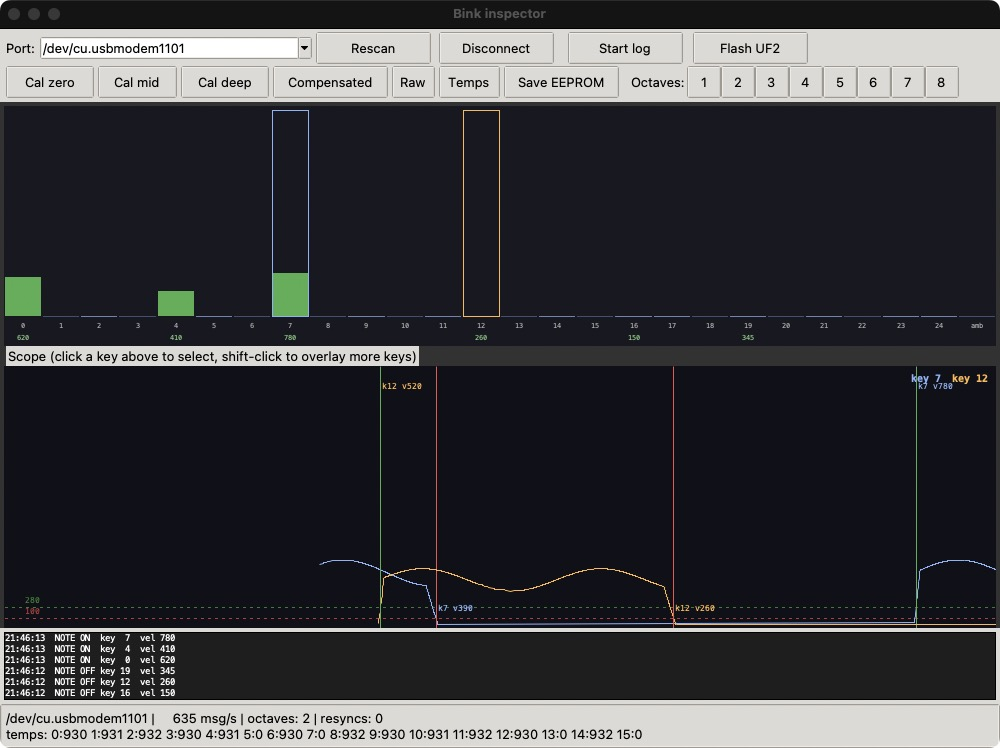
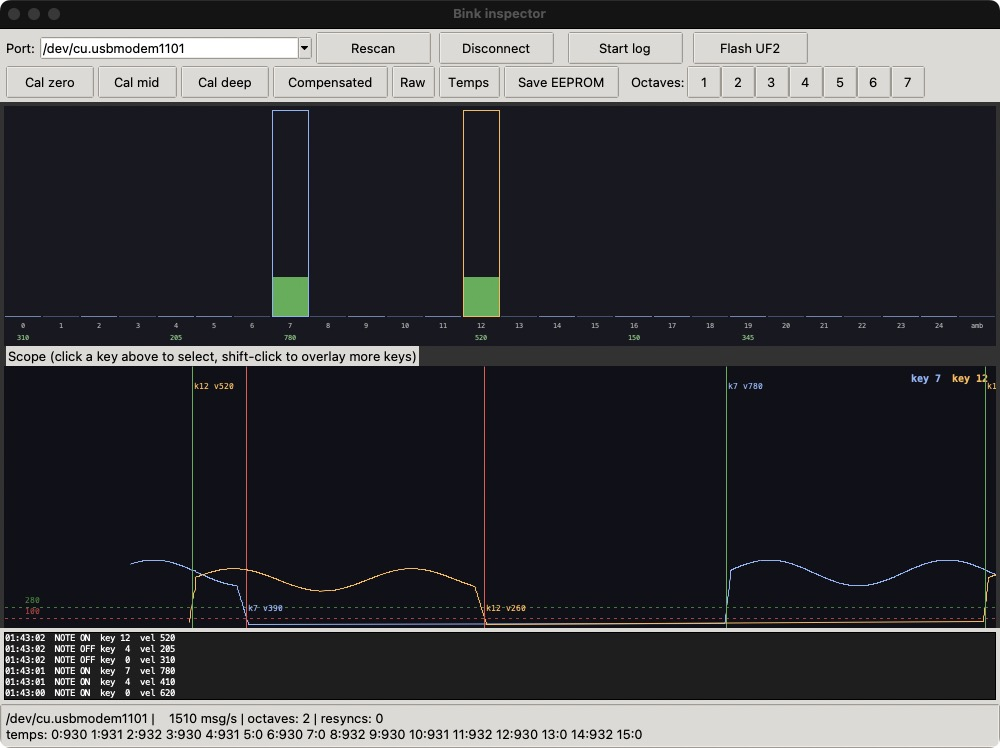
Limit keybeds to 7 octaves
Bink keybeds stop at 7 octaves, so BINK_MAX_OCTAVES is now 7 and the
8 octave command is gone from BinkComm, the inspector and the docs.
Key IDs now end below the octave ID, so BinkReceiver no longer needs
to tell the two apart. The firmware's pages use BINK_MAX_OCTAVES.

diff --git a/inspector/bink_gui.py b/inspector/bink_gui.py
@@ -108,7 +108,7 @@ class BinkGui:
             ttk.Button(board, text=label, width=len(label),
                        command=lambda c=cmd: self._send(c)).pack(side="left", padx=2)
         ttk.Label(board, text="Octaves:").pack(side="left", padx=(8, 0))
-        for n in range(1, 9):
+        for n in range(1, 8):
             ttk.Button(board, text=str(n), width=2,
                        command=lambda c=n: self._set_octaves(c)).pack(side="left")
 
@@ -186,8 +186,8 @@ class BinkGui:
         n = simpledialog.askinteger(
             "Bink inspector",
             "The board did not report its octave count.\n"
-            "How many octaves does this keybed have? (1-8)",
-            parent=self.root, minvalue=1, maxvalue=8, initialvalue=4)
+            "How many octaves does this keybed have? (1-7)",
+            parent=self.root, minvalue=1, maxvalue=7, initialvalue=4)
         if n is None or not self.ser:
             self.pending_events.append("octave count unknown; showing keys as they report")
             return
@@ -272,7 +272,7 @@ class BinkGui:
             if mtype == 3:
                 return
             if mid == ID_OCTAVES:
-                if value != self.octaves and 0 < value <= 8:
+                if value != self.octaves and 0 < value <= 7:
                     self.octaves = value
                     self._layout_keys(value)
                 return

diff --git a/inspector/bink_monitor.py b/inspector/bink_monitor.py
@@ -12,7 +12,7 @@ Interactive keys while running:
     z / m / h   capture zero / mid / deep calibration levels
     c / r       compensated / raw data mode
     t           request temperatures        o  request octave count
-    1..8        set octave count            E  save calibration to flash
+    1..7        set octave count            E  save calibration to flash
     l           toggle CSV logging          q  quit
 
 Offline plotting of a recorded CSV (requires matplotlib):
@@ -189,7 +189,7 @@ class Monitor:
                 f"resyncs: {self.dec.resyncs} | log: {log}"
             )
             lines.append(
-                "[z/m/h] cal zero/mid/deep  [c/r] comp/raw  [t]emps  [1-8] octaves  "
+                "[z/m/h] cal zero/mid/deep  [c/r] comp/raw  [t]emps  [1-7] octaves  "
                 "[E] save  [l]og  [q]uit"
             )
             lines.append("")
@@ -254,7 +254,7 @@ class Monitor:
         elif ch in "zmh":
             self.send({"z": "_", "m": "-", "h": "^"}[ch])
             self.events.append((time.time(), "sent", f"capture {'zero mid deep'.split()['zmh'.index(ch)]}", ""))
-        elif ch in "crtoE12345678":
+        elif ch in "crtoE1234567":
             cmd = {"c": "C", "r": "R", "t": "T", "o": "O", "E": "E"}.get(ch, ch)
             self.send(cmd)
             if ch.isdigit():

diff --git a/BinkComm/src/BinkComm.cpp b/BinkComm/src/BinkComm.cpp
@@ -26,7 +26,6 @@ void BinkReceiver::Dispatch(int id, int type, int value) {
     return;
 
   if (type == BINK_VALUE) {
-    // On an 8 octave keybed a key shares this ID, hence the check on the value.
     if (id == BINK_SPECIAL_OCTAVES && value >= 1 && value <= BINK_MAX_OCTAVES) {
       octaves = value;
       handler.OnOctaves(value);
@@ -46,8 +45,8 @@ void BinkReceiver::Dispatch(int id, int type, int value) {
       handler.OnAmbient(value);
     return;
   }
-  // Nothing but keys from here. Without a count any ID in range may be one, and only 8 octaves reach the octave ID.
-  if (id >= (count > 0 ? BINK_KEY_COUNT(count) : kMaxIds) || (id == BINK_SPECIAL_OCTAVES && count < BINK_MAX_OCTAVES))
+  // Nothing but keys from here. Without a count any ID in range may be one.
+  if (id >= (count > 0 ? BINK_KEY_COUNT(count) : kMaxIds))
     return;
 
   switch (type) {

diff --git a/firmware/core/DevKitApp.cpp b/firmware/core/DevKitApp.cpp
@@ -29,7 +29,6 @@ static bool ButtonPressed(HalButton button, ButtonState &state) {
 // (BinkReceiver::Octaves); the page changes the keybed's configuration with
 // SETOCTAVES_* and the keybed's next announcement confirms it here.
 int gDisplayOctaves = 2;
-static const int kMaxKeybedOctaves = 7; // the longest Bink keybed
 
 // Probe the keybed for its octave count and apply it to the display.
 //
@@ -295,8 +294,8 @@ public:
   virtual void Step(bool next) {
     int octaves = gDisplayOctaves + (next ? 1 : -1);
     if (octaves < 1)
-      octaves = kMaxKeybedOctaves;
-    else if (octaves > kMaxKeybedOctaves)
+      octaves = BINK_MAX_OCTAVES;
+    else if (octaves > BINK_MAX_OCTAVES)
       octaves = 1;
     // Show the requested count right away; the keybed's confirmation (or a
     // different count, if it refused) arrives through SyncOctavesFromKeybed.

diff --git a/BinkComm/include/bink/BinkProtocol.h b/BinkComm/include/bink/BinkProtocol.h
@@ -11,7 +11,7 @@
 // The header is left out when the ID is the previous message's ID plus one.
 #include <stdint.h>
 
-#define BINK_MAX_OCTAVES 8
+#define BINK_MAX_OCTAVES 7
 #define BINK_TEMPERATURE_COUNT 16
 
 // Keys of a keybed of `octaves` octaves: 12 per octave and the top C. Their IDs start at 0, the lowest C.
@@ -69,7 +69,6 @@ enum
     BINK_COMMAND_SETOCTAVES_5 = '5',
     BINK_COMMAND_SETOCTAVES_6 = '6',
     BINK_COMMAND_SETOCTAVES_7 = '7',
-    BINK_COMMAND_SETOCTAVES_88 = '8', // 8 octaves
     BINK_COMMAND_SETDATAMODE_COMPENSATED = 'C',
     BINK_COMMAND_SETDATAMODE_RAW = 'R',
 

diff --git a/docs/host_protocol.md b/docs/host_protocol.md
@@ -114,7 +114,7 @@ The ID sequence `5, 6, 7` on the UART is `85 xx xx  yy yy  zz zz`.
 | 0 .. 12N - 1 | keys of an N octave keybed, 0 is the lowest C | position |
 | 12N | the top C | position |
 | 12N + 1 | ambient magnetic field sensor, not a key | position |
-| 90 | octave count (`BINK_SPECIAL_OCTAVES`) | 1 .. 8 |
+| 90 | octave count (`BINK_SPECIAL_OCTAVES`) | 1 .. 7 |
 | 100 .. 115 | temperature channels | 12-bit ADC reading |
 
 Key IDs count semitones, so `id % 12` gives the note within the octave. Which MIDI note ID 0 is belongs to the host; the DevKit uses `id + 24`.
@@ -222,7 +222,6 @@ One byte each. An unknown byte is ignored. The keybed never confirms a command, 
 | `O` | `BINK_COMMAND_SENDOCTAVES` | send ID 90 |
 | `T` | `BINK_COMMAND_SENDTEMPERATURES` | send IDs 100 .. 115 |
 | `1` .. `7` | `BINK_COMMAND_SETOCTAVES_n` | set the octave count |
-| `8` | `BINK_COMMAND_SETOCTAVES_88` | set 8 octaves, see the limitations |
 | `_` | `BINK_COMMAND_CAPTUREZEROLEVELS` | store the current readings as rest levels |
 | `-` | `BINK_COMMAND_CAPTUREMEDIUMLEVELS` | store the current readings as mid levels |
 | `^` | `BINK_COMMAND_CAPTUREHIGHLEVELS` | store the current readings as deep levels |
@@ -304,7 +303,7 @@ on the UART. Boot order is not guaranteed, so either side can come up first.
 
 1. Open the receiver at 1,000,000 baud and the transmitter at 115,200 baud.
 2. Send `U`. This gets the stream back if the keybed was left in USB mode, and asks for the octave count.
-3. Until ID 90 arrives with a value from 1 to 8: send `O` every 500 ms.
+3. Until ID 90 arrives with a value from 1 to 7: send `O` every 500 ms.
 4. Size everything for that count: 12N + 1 keys.
 5. Optionally send `T` for the temperatures.
 6. Note the time of each ID 90. After 5 seconds without one, consider the link lost and go back to step 2. This also catches a keybed that was unplugged.
@@ -324,12 +323,12 @@ If the keybed is already in USB mode, raising DTR makes it send the temperatures
 
 ### Do not force the octave count
 
-The octave count belongs to the keybed: it is set once for the hardware and kept in flash. A host should read it. Sending `1` to `8` as part of a start-up
+The octave count belongs to the keybed: it is set once for the hardware and kept in flash. A host should read it. Sending `1` to `7` as part of a start-up
 sequence maps the sensors for the wrong keybed if the number is wrong, and the keys will come out mixed up.
 
 ## Octave count
 
-`1` to `8` rebuilds the map from sensors to key IDs at once.
+`1` to `7` rebuilds the map from sensors to key IDs at once.
 
 - The keybed does not announce the change: send `O` afterwards.
 - The change is lost at power-off unless followed by `E`.
@@ -407,7 +406,6 @@ Worth designing around, in this firmware:
 | Limitation | What to do |
 | --- | --- |
 | Above 5 octaves on a single board: a sensor system covers 2 octaves on the main board and up to 3 on an extension (ADC channels 5 and 6 in the firmware's 6- and 7-octave maps are not connected on the board). | 6 and 7 octave keybeds have a second Bink-25 at the other end of the keyboard. The host connects to both and combines their key ranges. |
-| 8 octaves: also takes ADC channel 7, which carries the temperatures, and key IDs run up to 97 and include 90, so a key can look like an octave announcement. The name `SETOCTAVES_88` is historic; it sets 8 octaves. | Accept ID 90 only with a value of 1 to 8, as `BinkReceiver` does, and expect the occasional wrong result on a key at that position. |
 | USB: a note on or off can be dropped when the host reads too slowly, and the keybed does not resend it. | Read the port continuously. If a key is reported as down and its position falls below 100, release it in the host. |
 | No acknowledgements, no checksums. | Ask for the state after changing it. Treat the position stream as the truth, since it repeats on every change. |
 | Changing the octave count does not release held notes. | Release all notes in the host when the count changes. |

diff --git a/inspector/MANUAL.md b/inspector/MANUAL.md
@@ -88,7 +88,7 @@ Velocity is the slope of the key's position at the moment it crosses the thresho
 | `Raw` | `R` | ADC readings, without notes |
 | `Temps` | `T` | Request the temperature channels |
 | `Save EEPROM` | `E` | Write the octave count and calibration to flash |
-| `1` to `8` | `1` to `8` | Set the octave count, then read it back |
+| `1` to `7` | `1` to `7` | Set the octave count, then read it back |
 
 The keybed does not acknowledge commands. Each one is listed in the event list when it is sent, which only tells you that it left the computer.
 
@@ -123,7 +123,7 @@ To change it:
 3. Calibrate again. Calibration is stored per key ID, so after a change the rest levels belong to other sensors.
 4. Press `Save EEPROM`.
 
-Bink keybeds have 1 to 7 octaves. `8` exists in the protocol, with the limitations listed in the host protocol document.
+Bink keybeds have 1 to 7 octaves.
 
 ## Temperatures
 
@@ -183,7 +183,7 @@ python3 bink_monitor.py COM7 --uart         # listen only
 | `z` `m` `h` | Capture zero, mid and deep levels |
 | `c` `r` | Compensated, raw |
 | `t` `o` | Request temperatures, request octave count |
-| `1` to `8` | Set the octave count |
+| `1` to `7` | Set the octave count |
 | `E` | Save to flash |
 | `l` | Start or stop logging |
 | `q` | Quit |

diff --git a/firmware/README.md b/firmware/README.md
@@ -60,7 +60,7 @@ The board has a single-turn `VOLUME` pot, an endless dual-wiper rotary pot for `
 | **Synth** | `value`: `LEFT` / `RIGHT` adjust the active parameter | All seven sound parameters with value bars (centered bar for bipolar `Touch`, four-step selector for `Sound`). |
 | **Keys** | `octaves`: `LEFT` / `RIGHT` step through 1 to 7 octaves and send `SETOCTAVES` to the keybed | The full keyboard, with each key lighting up in proportion to its depth. Automatically adopts the octave count reported by the keybed. |
 | **Curve** | `curve`: `LEFT` / `RIGHT` adjust `Curve` | Plot of the active touch response curve, with live dots showing the current pressure of each sounding voice. |
-| **Sensors** | `octave`: `LEFT` / `RIGHT` select octave 0 .. 7 | Live compensated 12-bit position readings and bars for the 12 keys of the selected octave. |
+| **Sensors** | `octave`: `LEFT` / `RIGHT` select octave 0 .. 6 | Live compensated 12-bit position readings and bars for the 12 keys of the selected octave. |
 | **Temp** | Sends `T` to measure temperatures | The 16 temperature channels reported by the keybed, converted to °C. |
 
 ## Architecture on the RP2354B
